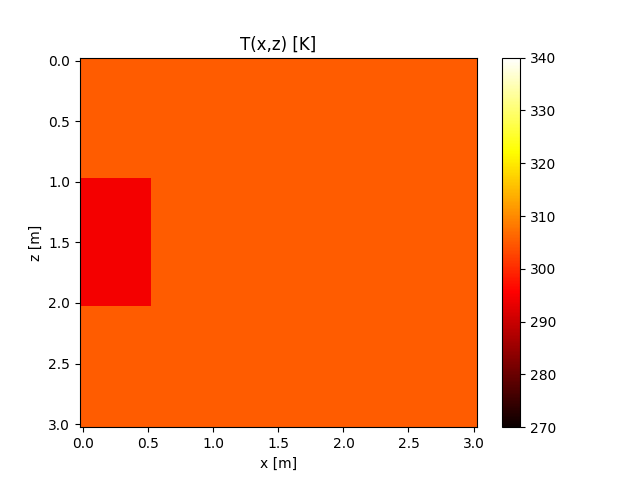
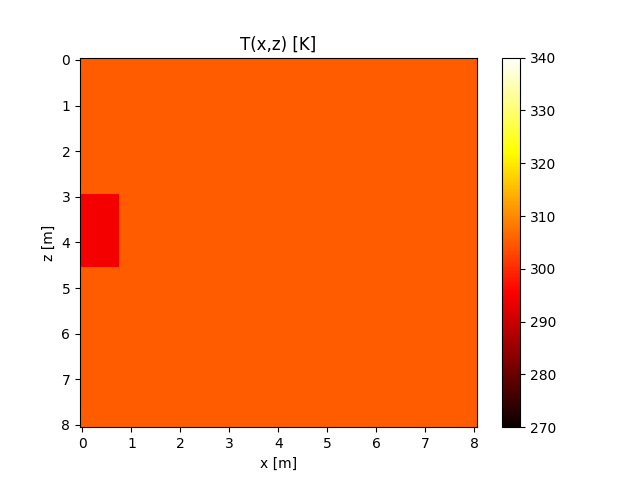
Implementation d'optimisation profondeur

diff --git a/main.py b/main.py
@@ -38,8 +38,8 @@ with open('constants.yaml') as f:
 
 
 p = 3   # Profondeur de l'abris [m]
-l_x = l_z = 3 # Largeur de l'abris en x [m] # Hauteur de l'abris en z [m]
-Lx = Lz = 10 # Largeur du domaine [m] et  Hauteur du domaine [m]
+l_x = l_z = 1.5 # Largeur de l'abris en x [m] # Hauteur de l'abris en z [m]
+Lx = Lz = 8 # Largeur du domaine [m] et  Hauteur du domaine [m]
 d = 0.1  # Pas de discrétisation [m]
 
 Nx=int(np.rint(Lx/d+1)) # Nombre de nœuds le long de X
@@ -49,61 +49,24 @@ z = np.linspace(0, Lz, Nz)
 x= np.linspace(0, Lx, Nx)
 
 
-d_list = [2, 1,  1/2, 1/4, 1/8, 1/16]
+p_list = np.linspace(0,3, 10)
 t_list = []
 mem_list = []
+energy_p = np.zeros([np.size(p_list)])
+i=0
 if __name__ == '__main__':
-    for i in d_list:
-        before_memory = 0
-        before_time = time.time_ns()
-        methode_matrice_2D_temporelle(planets_constants['earth'], p, l_x, l_z, Lx, Lz, i)
-        after_memory = get_memory_usage()
-        after_time = time.time_ns()
-        peak_time = (after_time-before_time)/1.0e9
-        peak_memory = after_memory - before_memory
-        t_list.append(peak_time)
-        mem_list.append(peak_memory)
-        print(f"Peak memory usage: {peak_memory/1024} KB")
-        print(f"Time: {peak_time} seconds")
-        
+    for p in p_list:
+        energy_p[i] =  methode_matrice_2D_temporelle(planets_constants['earth'], p, l_x, l_z, Lx, Lz, d)
+        i+=1
 
 
-poptmem, pcov = curve_fit(fit, (d_list), (mem_list))
-a_mem, b_mem = poptmem
-mem_list_fit = fit(d_list, a_mem, b_mem)
 
 plt.figure(2)    
-plt.loglog((d_list), (mem_list))
-plt.loglog((d_list), mem_list_fit, label = "fit lineaire: $t_{{ini}} = {a_mem:.2f})\delta^{{{b_mem:.2f}}}$")
+plt.plot((p_list), (energy_p))
+# plt.loglog((p_list), mem_list_fit, label = "fit lineaire: $t_{{ini}} = {a_mem:.2f})\delta^{{{b_mem:.2f}}}$")
 plt.legend()
-plt.xlabel('pas de discrétisation')
-plt.ylabel('mémoire utilisée (kB)')
-plt.title('Mémoire utilisée en fonction du pas de discrétisation')
-plt.savefig('memoryEval.png')
+plt.xlabel('Profondeur')
+plt.ylabel('Énergie')
+# plt.title('Mémoire utilisée en fonction du pas de discrétisation')
+plt.savefig('energy_p.png')
 plt.show()
-
-popt, pcov = curve_fit(fit, (d_list), (t_list))
-a_t, b_t = popt
-t_list_fit = fit(d_list, a_t, b_t)
-
-
-plt.figure(3)
-plt.scatter((d_list),(t_list))
-plt.loglog((d_list), t_list_fit, label = "fit lineaire: $t_{{ini}} = ({a_t:.2e})\delta^{{{b_t:.2f}}}$")
-plt.legend()
-plt.xlabel('pas de discrétisation (m)')
-plt.ylabel('temps de calcul (s)')
-plt.title('Temps de calcul en fonction du pas de discrétisation')
-plt.savefig('timeEval.png')
-plt.show()
-
-
-
-#Appel de nos fonctions
-# methode_matrice_2D(C_p, K, rho, tau, Q_0, T_s, d_pS, p, l_x, l_z, temps, N)
-# calcul_energie_chauffage()
-# calcul_energie_panneaux()
-# graph_T()
-# graph_E_vs_p()
-# graph_E_vs_taille()
-# graph_E_vs_ptaille()

diff --git a/methode_matrice_2D_temporelle.py b/methode_matrice_2D_temporelle.py
@@ -99,22 +99,44 @@ def methode_matrice_2D_temporelle (planete, p, l_x, l_z, Lx, Lz, d ):
         images.append(imageio.v2.imread(f'temperature2d{n}.png'))
         os.remove(f'temperature2d{n}.png')
 
+        Energy = []
+        if t>tau:
+            #ENERGIE CODE*****************************************************************************
+            dT_tot = 0
+            for i in range(Nz):
+                for j in range(Nx):
+                    if (p/d-1) > i > (p/d+1) and j <= (l_x/(2*d)+1):
+                        dT_up = (Unr[i,j] - Unr[i-1,j])/(d)
+                        dT_tot += abs(dT_up)
+                    if ((l_z+p)/d-1)< i < ((l_z+p)/d+1) and j <= (l_x/(2*d)+1):
+                        dT_down = (Unr[i+1,j] - Unr[i,j])/(d)
+                        dT_tot += abs(dT_down)
+                    if i >= (p/d+1)  and  i <= ((l_z+p)/d+1) and (l_x/(2*d)-1) < j < (l_x/(2*d)+1):
+                        dT_side = (Unr[i,j+1] + Unr[i,j])/(d)
+                        dT_tot += abs(dT_side)
+        
+            Energy.append((2*l_x+l_z)*dT_tot)
+            #ENERGIE FIN***********************************************************************************
+        
+
+
         n=n+1
 
     imageio.v2.mimsave('temperatureEarth.gif', images)
+    return np.sum(np.array(Energy))
 
     print(f""" 
 CALCUL TERMINÉ : ANIMATION SAUVEGARDÉE
 #######################################################################################################""")
-with open('constants.yaml') as f:
-    planets_constants = yaml.safe_load(f)
+# with open('constants.yaml') as f:
+#     planets_constants = yaml.safe_load(f)
 
-p = 1   # Profondeur de l'abris [m]
-l_x = 1 # Largeur de l'abris en x [m]
-l_z = 1 # Hauteur de l'abris en z [m]
-Lx = 3 # Largeur du domaine [m]
-Lz = 3 # Hauteur du domaine [m]
-d = 0.05  # Pas de discrétisation [m]
+# p = 1   # Profondeur de l'abris [m]
+# l_x = 1 # Largeur de l'abris en x [m]
+# l_z = 1 # Hauteur de l'abris en z [m]
+# Lx = 3 # Largeur du domaine [m]
+# Lz = 3 # Hauteur du domaine [m]
+# d = 0.05  # Pas de discrétisation [m]
 
 
-methode_matrice_2D_temporelle(planets_constants['earth'],  p, l_x, l_z, Lx, Lz, d)
+# methode_matrice_2D_temporelle(planets_constants['earth'],  p, l_x, l_z, Lx, Lz, d)
